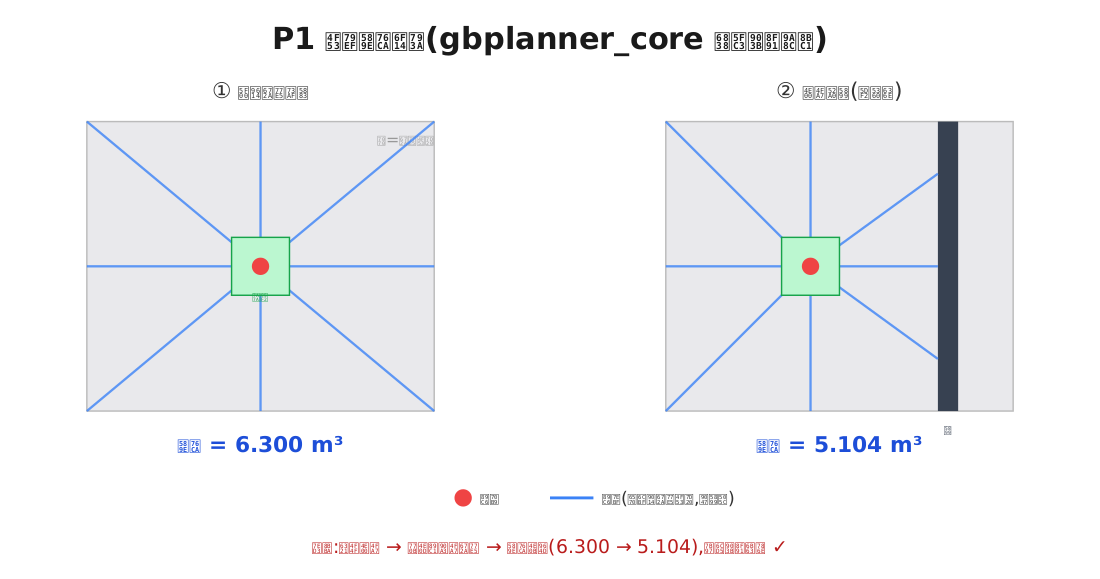
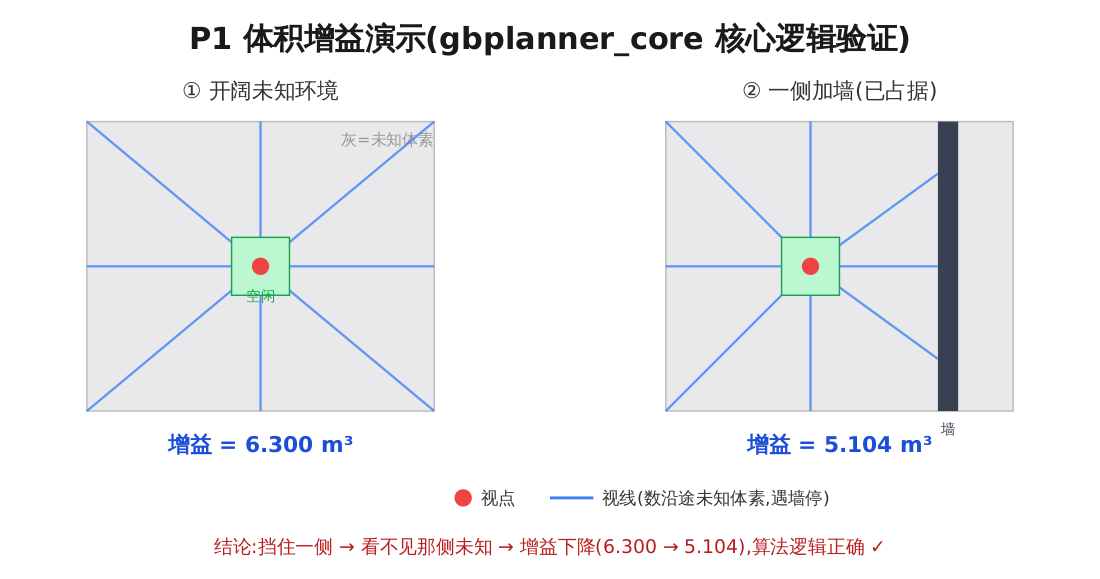
任务命名重整(特异+可读)+新增论证/对比/留痕任务;建预研A/B独立报告;修复PNG中文字体

diff --git a/TASKS.md b/TASKS.md
@@ -1,44 +1,50 @@
-# 任务台账(进程调度式 · 防丢 + 自纠错机制)
+# 任务台账(进程调度式 · 防丢 + 自纠错 + 留痕)
 
-> 项目"调度状态盘",仿操作系统进程表(PCB)。git 提交后永不丢。
+> 项目"调度状态盘",仿操作系统进程表(PCB)。git 提交后永不丢。被打断后我读本表自动接续,无需提醒。
 
 ## 一、机制
 
 ### 1.1 调度 / 防丢(仿 OS 进程表)
 - 本文件 = 进程表;状态:⬜就绪 / 🔵运行中 / ⏸阻塞 / ✅完成。
-- **检查点**:每完成一最小步 → 写盘 + git 提交 → 任何时刻被打断,已完成部分都在。
-- **抢占**:你插入紧急任务 = 高优先级抢占;我先把当前状态写进本表,处理你的事,再回表续跑。
+- **检查点**:每完成一最小步 → 写盘 + git 提交。
+- **抢占**:你插入紧急任务 = 高优先级抢占;我先把当前状态写表,处理你的事,再回表续跑。
 - **后台进程**:长任务(镜像构建、子模块拉取)放后台,完成通知,不阻塞前台。
 
-### 1.2 自纠错(防止"我自己出错还发现不了")
-- **文档(md)**:每次更新后自检 →① 不含 base64 等大块乱码;② 引用图片文件都存在;③ 桌面 md 用**绝对路径**引图、README 用相对路径;④ 文件大小正常。不过则修正再提交。
-  - ⚠ 教训:**Typora 不渲染 base64 内嵌图** → 桌面 md 一律绝对路径引 PNG,**禁用 base64**。
-- **代码**:每写一段必须在 WSL **编译 + 跑测试**,全绿才算完成、才提交;不绿不标完成。
-- **每步收尾(四处同步)**:① 更新桌面 md(文字+图)② 跑上述自检 ③ git 提交推送(权威源 / 桌面传送门[自动] / 桌面 md / GitHub 四处一致)。
+### 1.2 自纠错(防止"自己出错还发现不了")
+- **文档(md)**:每次更新后自检 →① 不含 base64 大块;② 引用图片都存在;③ 桌面 md 用**绝对路径**引图、README 用相对路径;④ 大小正常。
+  - ⚠ 教训1:Typora 不渲染 base64 内嵌图 → 桌面 md 严禁 base64,绝对路径引 PNG。
+  - ⚠ 教训2:WSL 无中文字体时 rsvg-convert 转出的 PNG 中文变豆腐块 → 必须先装 `fonts-noto-cjk`/`fonts-wqy-zenhei` 再转。
+- **代码**:每写一段必在 WSL **编译 + 跑测试**,全绿才算完成才提交。
+- **留痕(你的要求)**:每做完一件事都留证据 —— 仿真**截图**、生成的**图/表**统一存 `images/`,并在文档里写清"做了什么、结果如何"。
 
-## 二、命名约定(消除歧义)
-- **预研 A / 预研 B** = 两个**复现任务**(A=复现 world-model,B=复现 GBPlanner)。
-- **集成方案**用文字名:**「桥接方案(ros1_bridge)」(已选定)** / **「重写方案(gbplanner_core)」(备选)**。**不再用字母 A/B 指代方案。**
+### 1.3 四处同步(每步收尾)
+① 更新桌面 md(文字+图)②跑自检 ③git 提交推送 → 权威源 / 桌面传送门[自动] / 桌面 md / GitHub 四处一致。
+
+## 二、命名约定(特异性 + 可读性)
+- **预研 A / 预研 B** = 复现任务(A=复现 world-model,B=复现 GBPlanner)。
+- **集成方案** = 「桥接方案(ros1_bridge)」(已选定)/「重写方案(gbplanner_core)」(备选)。**不用字母指代方案。**
 
 ## 三、当前任务表(2026-06-29)
 | ID | 任务 | 状态 | 备注 |
 |---|---|---|---|
-| 1 | 预研 B:GBPlanner 参考镜像 | ✅ 完成 | `gbplanner-ref` 镜像**构建成功**(修复重复包后);跑 rmf_sim 看动画为可选下一步 |
-| 2 | 深挖 GBPlanner 接 ROS2 的做法 | ✅ 完成 | 确认 ros1_bridge 官方做法 → 你已选「桥接方案」 |
-| 3 | 预研 A:复现 world-model | 🔵 运行中 | 子模块已拉完;下一步 `navlab-sim build` 构镜像(重型,**动手前会确认**) |
-| 4 | 桥接路线落地(原 P1 重定向) | ⬜ 就绪 | 见第四节 |
+| 1 | 预研B·复现 GBPlanner 官方 ROS1 仿真 | ✅ 完成 | `gbplanner-ref` 镜像构建成功;跑 rmf_sim 动画为下一步 |
+| 2 | 调研·确认 ros1_bridge 官方接入做法 | ✅ 完成 | 你已选「桥接方案」 |
+| 3 | 预研A·完整复现并**实际运行** world-model | 🔵 运行中 | 子模块已拉完;下一步构建镜像集→跑 exploration |
+| 4 | 桥接落地·ros1_bridge 接 GBPlanner 入 world-model | ⬜ 就绪 | 见第四节 |
+| 5 | 论证·跑 frontier_lite + 小 demo 证明其不足 | ⏸ 阻塞(依赖#3) | 实跑+数据+截图,**充分论证不空口** |
+| 6 | 对比·GBPlanner vs frontier_lite 量化对照 | ⏸ 阻塞(依赖#3#4) | 覆盖率/用时/路径/卡死 → 表+图,突出优势 |
+| 7 | 文档·写预研A/预研B 独立报告(桌面+三处) | 🔵 进行中 | 两份初稿已建,随复现进展补截图/数据 |
 
 ## 四、决策 & 桥接路线(你已拍板)
-**集成采用「桥接方案(ros1_bridge)」。** 据此原 P1 重新规划为:
-1. 跑通 GBPlanner 的 ROS1 容器(预研 B 的 `gbplanner-ref`),`roslaunch rmf_sim`,确认算法真实 I/O。
-2. 搭 **ros1_bridge**:把 world-model(ROS2)的 3D 点云 + 里程计 → 喂给 GBPlanner(ROS1)期望话题;把 GBPlanner/PCI 输出的路径/航点 → 回流到 ROS2 的 `/navlab/exploration/*`。
-3. **给仿真无人机 iq_quad 加 3D 雷达**(GBPlanner 需 3D 点云;现仅 2D)。
-4. 接 world-model 的 exploration 任务,替换 frontier_lite,过验收闸门。
+集成采用「桥接方案(ros1_bridge)」。原 P1 重规划为:① 跑通 gbplanner-ref 的 rmf_sim 确认 I/O ② 搭 ros1_bridge:world-model(ROS2)点云/里程计 → 喂 GBPlanner(ROS1),航点回流 `/navlab/exploration/*` ③ 给 iq_quad 加 3D 雷达 ④ 接 exploration 替换 frontier_lite。`gbplanner_core` 转备选/加深理解。
 
-> 已写的 `gbplanner_core`(光线投射+体积增益,测试通过)→ 转为**加深理解 + 备选实现**,不浪费。
-> 📌 建议向 mentor 确认一句"接受 ros1_bridge 方案吗"。
+## 五、论证与对比要求(你新增)
+- **必须实据**:world-model 要在本机完整跑通;frontier_lite 的不足要用**实跑 demo + 量化数据**证明,不空口。
+- **必须对比**:GBPlanner 与 frontier_lite 同场景对照,量化指标突出 GBPlanner 优势。
+- **必须留痕**:截图、图、表全部存档并写进文档。
 
-## 五、自检记录
-- 2026-06-29 桌面 md:base64 乱码 → 改绝对路径,自检+复检通过(无 base64,20KB)。
-- 2026-06-29 P1 代码:cmake 编译 + ctest **1/1 通过**。
-- 2026-06-29 预研 B:docker build **BUILD_OK**,镜像 `gbplanner-ref`(10.7GB)生成。
+## 六、自检记录
+- 2026-06-29 桌面 md base64 乱码 → 改绝对路径,自检通过。
+- 2026-06-29 PNG 中文豆腐块 → 装 Noto CJK 字体重转,已修复。
+- 2026-06-29 P1 代码 cmake+ctest 1/1 通过。
+- 2026-06-29 预研B docker build BUILD_OK,镜像 gbplanner-ref(10.7GB)。

diff --git a/docs/预研B_复现GBPlanner.md b/docs/预研B_复现GBPlanner.md
@@ -1,0 +1,46 @@
+# 预研 B · 复现 GBPlanner 官方仿真(ROS1)
+
+> 目的:在本机**独立复现**官方 GBPlanner,看懂算法真实行为与 I/O,作为「桥接方案」的运行件。
+> 状态:**镜像已构建成功 ✅**;实际 roslaunch 跑动画为下一步(需 WSLg GUI,截图留证)。最后更新 2026-06-29。
+
+## 一、目标
+- 不依赖 world-model,单独把官方 `ntnu-arl/gbplanner_ros`(gbplanner2,ROS1 Noetic)跑起来。
+- 确认输入/输出话题、参数、行为,供桥接对接。
+
+## 二、做了什么 + 关键命令
+1. 写 ROS1 Noetic 的一键 Dockerfile(`runbooks/gbplanner_ref/Dockerfile`)。
+2. **踩坑并修复**:首版手动 `git clone gbplanner_ros` + rosinstall 又拉一份 → catkin 报"重复包 planner_msgs"。
+   **修复**:不手动 clone,直接用官方 `packages_https.rosinstall` 在**工作区根**初始化(其 local-name 自带 `src/` 前缀):
+   ```dockerfile
+   WORKDIR /root/gbp_ws
+   RUN wget -O /tmp/packages.rosinstall \
+         https://raw.githubusercontent.com/ntnu-arl/gbplanner_ros/gbplanner2/packages_https.rosinstall && \
+       wstool init . /tmp/packages.rosinstall && wstool update
+   RUN source /opt/ros/noetic/setup.bash && catkin config -DCMAKE_BUILD_TYPE=Release && catkin build
+   ```
+3. 后台构建(容器内 github 走代理):
+   ```bash
+   docker build --network=host \
+     --build-arg HTTPS_PROXY=http://127.0.0.1:7897 \
+     -t gbplanner-ref runbooks/gbplanner_ref
+   ```
+
+## 三、结果(留痕)
+| 项 | 结果 |
+|---|---|
+| 构建 | `BUILD_OK` |
+| 镜像 | `gbplanner-ref:latest`(约 10.7GB) |
+| 含包 | gbplanner、planner_common、planner_msgs、pci_general、voxblox、rotors_simulator 等 |
+| 结论 | **GBPlanner 的 ROS1 环境在本机可复现** |
+
+> 📸 截图待补:`docker images` 输出、后续 `roslaunch gbplanner rmf_sim.launch` 的 RViz 画面 → 存 `images/预研B_*.png`。
+
+## 四、算法真实 I/O(供桥接对接)
+- 输入:点云 `/pointcloud`←`/<robot>/velodyne_points`(**3D**);里程计 `odometry`←`ground_truth/odometry_throttled`;TF `world→navigation`。
+- 输出:经 **PCI**(`pci_general_ros_node`)下发路径/航点;由 service 触发(`std_srvs/Trigger`、`pci_search`、`pci_global`)。
+- 建图:voxblox(编译进 gbplanner)。
+
+## 五、下一步
+1. `roslaunch gbplanner rmf_sim.launch`(WSLg)→ 录 RViz 探索过程截图。
+2. 抄 `gbplanner_config.yaml` / `voxblox_sim_config.yaml` 关键参数。
+3. 作为桥接方案的 ROS1 运行件,接 ros1_bridge。

diff --git a/docs/预研A_复现worldmodel.md b/docs/预研A_复现worldmodel.md
@@ -1,0 +1,33 @@
+# 预研 A · 在本机完整复现并运行 world-model 仿真
+
+> 目的:**完整复现并实际运行** world-model(不止构建),亲眼跑通 exploration 任务,**用证据论证** frontier_lite 探索的不足,为引入 GBPlanner 提供实据。
+> 状态:🔵 进行中 —— 子模块已拉完;镜像构建待启动(重型,约 1–2h)。最后更新 2026-06-29。
+
+## 一、目标(精细度要求)
+1. 在本机把 world-model 仿真**完整跑起来**:Gazebo(无头)+ ArduPilot SITL + Cartographer SLAM + exploration 任务。
+2. **实跑 frontier_lite**,做小 demo 暴露其局限(2D 平面、覆盖不充分、易停),**用数据+截图充分论证"需要改进"**(不空口)。
+3. 为后续 GBPlanner vs frontier_lite 对比实验铺底。
+
+## 二、当前进度
+| 步骤 | 状态 |
+|---|---|
+| 克隆 world-model 仓库 | ✅ |
+| 拉取子模块(ardupilot/Livox-SDK2/YDLidar-SDK 等) | ✅ exit 0 |
+| 构建镜像集(navlab-sim build / docker) | ⬜ 待启动(需处理容器内 github 代理) |
+| 运行 exploration 任务 | ⬜ |
+| 截图 + 覆盖率/用时数据留痕 | ⬜ |
+| 论证 frontier_lite 不足(小 demo) | ⬜ |
+
+## 三、计划步骤 + 留痕清单
+1. `cd ~/ws/world-model/orchestration/sim && go run ./cmd/navlab-sim ...` 构建/启动 exploration。
+   - 📸 留痕:`navlab-sim list-tasks/doctor` 输出、镜像构建日志。
+2. 起 Gazebo(headless)+ SITL + SLAM,跑 exploration(frontier_lite)。
+   - 📸 留痕:RViz/Gazebo 截图、无人机轨迹、Cartographer 2D 地图、覆盖率随时间曲线、rosbag。
+3. **论证缺陷的小 demo**:量化 frontier_lite 的覆盖率/用时/是否卡死/只在 2D 平面探索 → 出表+图,存 `images/预研A_*.png`。
+
+## 四、为什么这一步重要(给报告)
+组会要"充分论证",不能只说"frontier_lite 不行"。本预研产出**实跑证据**(截图+指标),证明其局限,再引出 GBPlanner 的价值——这是论证链的第一环。
+
+## 五、风险/注意
+- 镜像构建重(1–2h)、容器内拉 github 需代理(参照预研B 的 `--build-arg HTTPS_PROXY`)。
+- WSL2 跑 Gazebo GUI 用 WSLg;吃力则用 headless + rosbag + 截图。
